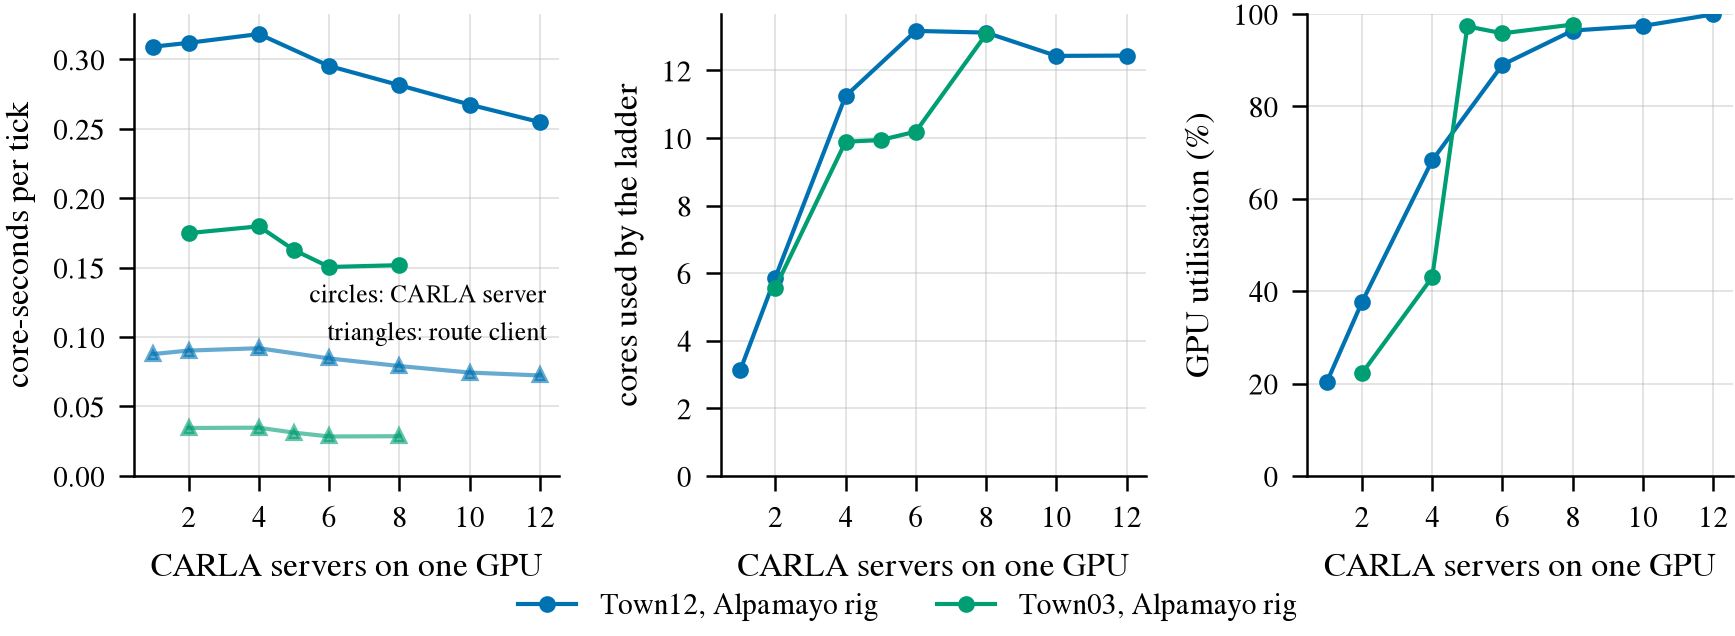
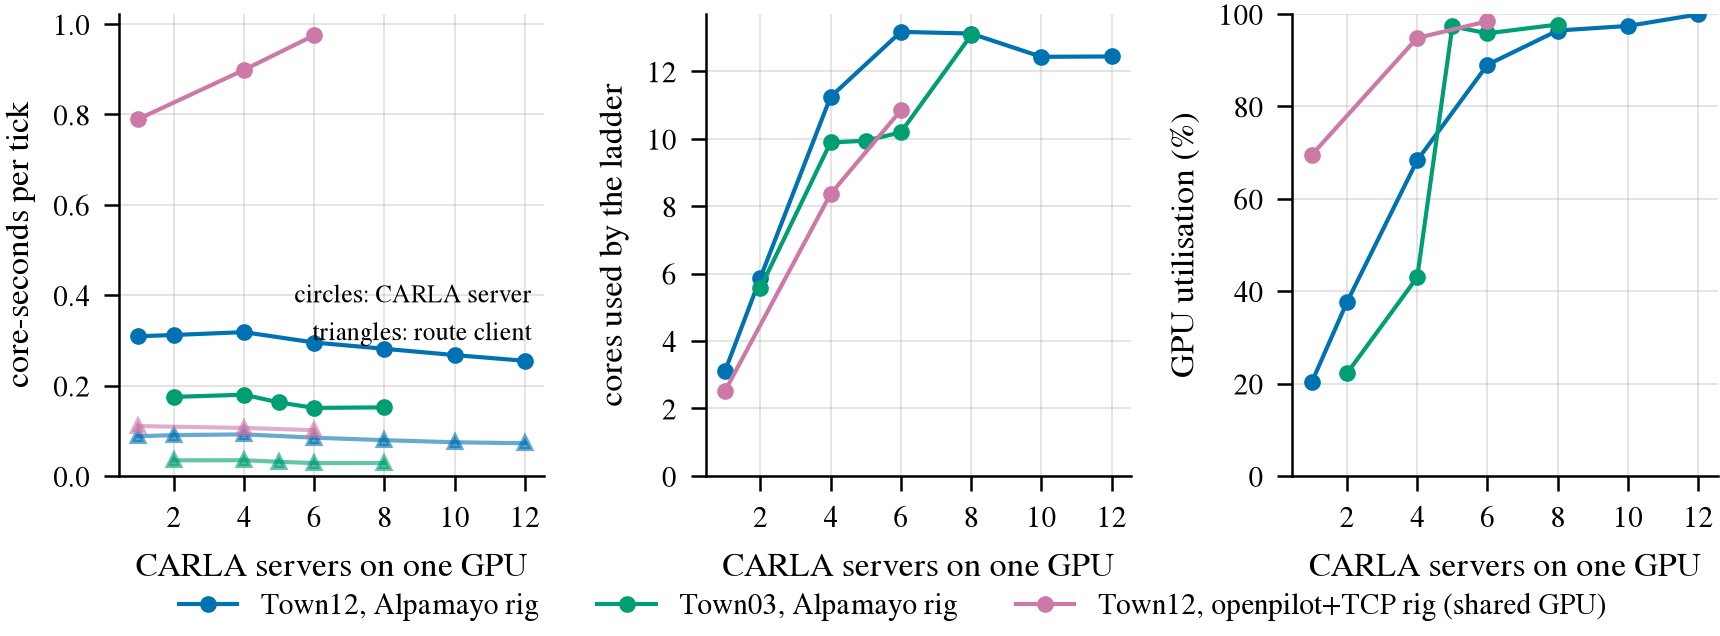
Infra profiling: openpilot+TCP rig ladder (shared GPU, cost upper bound)

diff --git a/scripts/make_infra_scale_figs.py b/scripts/make_infra_scale_figs.py
@@ -20,7 +20,7 @@ SERIES = {  # step -> (label, colour, line style)
     "t03-alp": ("Town03, Alpamayo rig", "#009E73", "-"),
     "t13-t8": ("Town13, Alpamayo rig", "#D55E00", "-"),
     "t13-lights-t8": ("Town13, Alpamayo rig, cached lights", "#E69F00", "--"),
-    "t12-op-t8": ("Town12, openpilot+TCP rig", "#CC79A7", "-"),
+    "t12-op-t8": ("Town12, openpilot+TCP rig (shared GPU)", "#CC79A7", "-"),
     "t12-alp-res64": ("Town12, Alpamayo rig, 64x64 viewport", "#56B4E9", "--"),
     "t12-base6": ("Town12, Alpamayo rig (GPU 0 baseline)", "#000000", "none"),
     "t12-t8": ("Town12, Alpamayo rig, 8 client threads", "#7F7F7F", "none"),

diff --git a/docs/bench2drive-cost.md b/docs/bench2drive-cost.md
@@ -59,6 +59,20 @@ servers; Town03 is still climbing at eight.
 points are rungs of 6 and 12 measured on the workers that survived setup. Background load was heavy during the
 Town03 rungs, 55-88 cores of other jobs.)
 
+**The heaviest rig** (openpilot road + wide 1928x1208 and TCP's three 1600x900, all five every tick; cost stub
+`b2d_agent.py --rig op2tcp3`, `--client-threads 8`) was measured after 17:30 CST on GPU 0 while six other
+CARLA servers ran on the same card, so read it as an upper bound on cost:
+
+| Servers (ours, on a card with 6 others) | 1 | 4 | 6 |
+|---|---:|---:|---:|
+| aggregate ticks/s | 2.8 | 8.3 | 10.1 |
+| per-worker ms/tick (sensor wait in the agent) | 356 (299) | 483 (424) | 595 (533) |
+| server core-seconds per tick | 0.79 | 0.90 | 0.98 |
+
+Five cameras every tick cost about three times the Alpamayo rig per tick on both the GPU and the server CPU;
+the card was at 95-98% utilisation from four of our servers on. For this rig budget ~3 cores per worker and
+expect the GPU knee at or below six.
+
 ![CPU per tick, cores used and GPU utilisation against servers on one GPU](../research/figs/infra-scale-resources.png)
 
 Left: core-seconds per simulated tick, flat in N; middle: cores our processes used; right: GPU utilisation.
